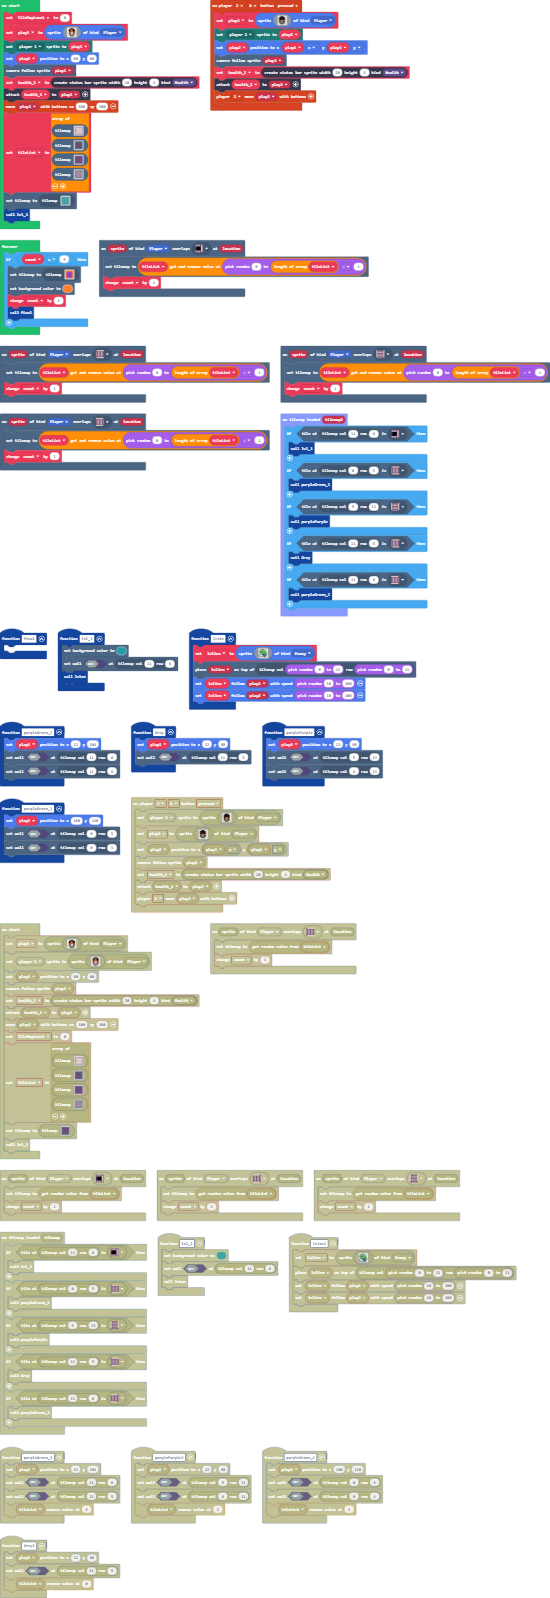
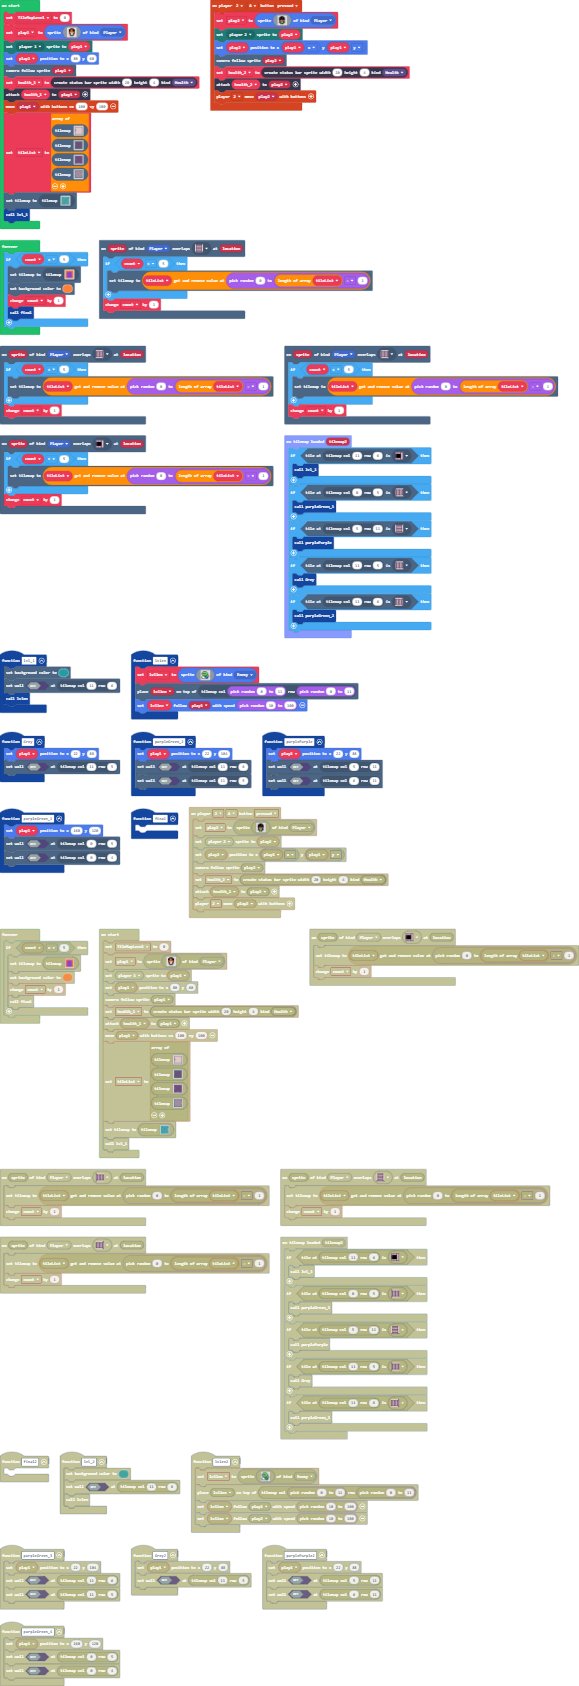
worked on some glitches and errors

diff --git a/tilemap.g.ts b/tilemap.g.ts
@@ -202,21 +202,6 @@ namespace myTiles {
 2 . . . . . . . . . . 2 
 2 2 2 2 2 2 2 2 2 2 2 2 
 `, [myTiles.transparency16,sprites.dungeon.greenOuterNorthWest,sprites.dungeon.greenOuterSouthEast,sprites.dungeon.greenOuterSouthWest,sprites.dungeon.greenOuterNorthEast,sprites.dungeon.greenOuterSouth0,sprites.dungeon.greenOuterEast1,sprites.dungeon.greenOuterWest1,sprites.dungeon.greenOuterNorth0,sprites.dungeon.greenOuterNorth1,sprites.dungeon.greenOuterEast0,sprites.dungeon.greenOuterSouth1,sprites.dungeon.greenOuterWest0,sprites.dungeon.stairLarge,sprites.dungeon.darkGroundNorthWest1,sprites.dungeon.darkGroundCenter,sprites.dungeon.stairEast], TileScale.Sixteen);
-            case "level7":
[1 lines of base64/hex data omitted]
-2 2 2 2 2 2 2 2 2 2 2 2 
-2 . . . . . . . . . . 2 
-2 . . . . . . . . . . 2 
-2 . . . . . . . . . . 2 
-2 2 . . . . . . . . . 2 
-2 2 . . . . . . . . . . 
-2 2 . . . . . . . . . 2 
-2 . . . . . . . . . . 2 
-2 . . . . . . . . . . 2 
-2 . . . . . . . . . . 2 
-2 . . . . . . . . . . 2 
-2 2 2 2 2 2 2 2 2 2 2 2 
-`, [myTiles.transparency16,sprites.dungeon.floorDark0,sprites.dungeon.floorMixed,sprites.dungeon.floorDarkDiamond,sprites.dungeon.floorDark1,sprites.dungeon.floorDark4,sprites.dungeon.floorLight2,sprites.dungeon.floorLight5,sprites.dungeon.purpleInnerNorthEast,sprites.dungeon.purpleInnerSouthEast,sprites.dungeon.stairWest,sprites.dungeon.stairEast], TileScale.Sixteen);
             case "level17":
             case "level17":return tiles.createTilemap(hex`1000100000000000000000000000000000000000000000000000000000000000000000000000000000000000000000000000000000000000000000000000000000000000000000000000000000000000000000000000000000000000000000000000000000000000000000000000000000000000000000000000000000000000000000000000000000000000000000000000000000000000000000000000000000000000000000000000000000000000000000000000000000000000000000000000000000000000000000000000000000000000000000000000000000000000000000000000000000000000000000000000000000000000000000000000000000000000`, img`
 . . . . . . . . . . . . . . . . 
@@ -285,6 +270,116 @@ namespace myTiles {
 . . . . . . . . . . . . . . . . 
 . . . . . . . . . . . . . . . . 
 `, [myTiles.transparency16], TileScale.Sixteen);
+            case "level19":
+            case "level19":return tiles.createTilemap(hex`1000100000000000000000000000000000000000000000000000000000000000000000000000000000000000000000000000000000000000000000000000000000000000000000000000000000000000000000000000000000000000000000000000000000000000000000000000000000000000000000000000000000000000000000000000000000000000000000000000000000000000000000000000000000000000000000000000000000000000000000000000000000000000000000000000000000000000000000000000000000000000000000000000000000000000000000000000000000000000000000000000000000000000000000000000000000000000`, img`
+. . . . . . . . . . . . . . . . 
+. . . . . . . . . . . . . . . . 
+. . . . . . . . . . . . . . . . 
+. . . . . . . . . . . . . . . . 
+. . . . . . . . . . . . . . . . 
+. . . . . . . . . . . . . . . . 
+. . . . . . . . . . . . . . . . 
+. . . . . . . . . . . . . . . . 
+. . . . . . . . . . . . . . . . 
+. . . . . . . . . . . . . . . . 
+. . . . . . . . . . . . . . . . 
+. . . . . . . . . . . . . . . . 
+. . . . . . . . . . . . . . . . 
+. . . . . . . . . . . . . . . . 
+. . . . . . . . . . . . . . . . 
+. . . . . . . . . . . . . . . . 
+`, [myTiles.transparency16], TileScale.Sixteen);
+            case "level20":
+            case "level20":return tiles.createTilemap(hex`1000100000000000000000000000000000000000000000000000000000000000000000000000000000000000000000000000000000000000000000000000000000000000000000000000000000000000000000000000000000000000000000000000000000000000000000000000000000000000000000000000000000000000000000000000000000000000000000000000000000000000000000000000000000000000000000000000000000000000000000000000000000000000000000000000000000000000000000000000000000000000000000000000000000000000000000000000000000000000000000000000000000000000000000000000000000000000`, img`
+. . . . . . . . . . . . . . . . 
+. . . . . . . . . . . . . . . . 
+. . . . . . . . . . . . . . . . 
+. . . . . . . . . . . . . . . . 
+. . . . . . . . . . . . . . . . 
+. . . . . . . . . . . . . . . . 
+. . . . . . . . . . . . . . . . 
+. . . . . . . . . . . . . . . . 
+. . . . . . . . . . . . . . . . 
+. . . . . . . . . . . . . . . . 
+. . . . . . . . . . . . . . . . 
+. . . . . . . . . . . . . . . . 
+. . . . . . . . . . . . . . . . 
+. . . . . . . . . . . . . . . . 
+. . . . . . . . . . . . . . . . 
+. . . . . . . . . . . . . . . . 
+`, [myTiles.transparency16], TileScale.Sixteen);
+            case "level21":
+            case "level21":return tiles.createTilemap(hex`1000100000000000000000000000000000000000000000000000000000000000000000000000000000000000000000000000000000000000000000000000000000000000000000000000000000000000000000000000000000000000000000000000000000000000000000000000000000000000000000000000000000000000000000000000000000000000000000000000000000000000000000000000000000000000000000000000000000000000000000000000000000000000000000000000000000000000000000000000000000000000000000000000000000000000000000000000000000000000000000000000000000000000000000000000000000000000`, img`
+. . . . . . . . . . . . . . . . 
+. . . . . . . . . . . . . . . . 
+. . . . . . . . . . . . . . . . 
+. . . . . . . . . . . . . . . . 
+. . . . . . . . . . . . . . . . 
+. . . . . . . . . . . . . . . . 
+. . . . . . . . . . . . . . . . 
+. . . . . . . . . . . . . . . . 
+. . . . . . . . . . . . . . . . 
+. . . . . . . . . . . . . . . . 
+. . . . . . . . . . . . . . . . 
+. . . . . . . . . . . . . . . . 
+. . . . . . . . . . . . . . . . 
+. . . . . . . . . . . . . . . . 
+. . . . . . . . . . . . . . . . 
+. . . . . . . . . . . . . . . . 
+`, [myTiles.transparency16], TileScale.Sixteen);
+            case "level22":
+            case "level22":return tiles.createTilemap(hex`1000100000000000000000000000000000000000000000000000000000000000000000000000000000000000000000000000000000000000000000000000000000000000000000000000000000000000000000000000000000000000000000000000000000000000000000000000000000000000000000000000000000000000000000000000000000000000000000000000000000000000000000000000000000000000000000000000000000000000000000000000000000000000000000000000000000000000000000000000000000000000000000000000000000000000000000000000000000000000000000000000000000000000000000000000000000000000`, img`
+. . . . . . . . . . . . . . . . 
+. . . . . . . . . . . . . . . . 
+. . . . . . . . . . . . . . . . 
+. . . . . . . . . . . . . . . . 
+. . . . . . . . . . . . . . . . 
+. . . . . . . . . . . . . . . . 
+. . . . . . . . . . . . . . . . 
+. . . . . . . . . . . . . . . . 
+. . . . . . . . . . . . . . . . 
+. . . . . . . . . . . . . . . . 
+. . . . . . . . . . . . . . . . 
+. . . . . . . . . . . . . . . . 
+. . . . . . . . . . . . . . . . 
+. . . . . . . . . . . . . . . . 
+. . . . . . . . . . . . . . . . 
+. . . . . . . . . . . . . . . . 
+`, [myTiles.transparency16], TileScale.Sixteen);
+            case "level23":
+            case "level23":return tiles.createTilemap(hex`1000100000000000000000000000000000000000000000000000000000000000000000000000000000000000000000000000000000000000000000000000000000000000000000000000000000000000000000000000000000000000000000000000000000000000000000000000000000000000000000000000000000000000000000000000000000000000000000000000000000000000000000000000000000000000000000000000000000000000000000000000000000000000000000000000000000000000000000000000000000000000000000000000000000000000000000000000000000000000000000000000000000000000000000000000000000000000`, img`
+. . . . . . . . . . . . . . . . 
+. . . . . . . . . . . . . . . . 
+. . . . . . . . . . . . . . . . 
+. . . . . . . . . . . . . . . . 
+. . . . . . . . . . . . . . . . 
+. . . . . . . . . . . . . . . . 
+. . . . . . . . . . . . . . . . 
+. . . . . . . . . . . . . . . . 
+. . . . . . . . . . . . . . . . 
+. . . . . . . . . . . . . . . . 
+. . . . . . . . . . . . . . . . 
+. . . . . . . . . . . . . . . . 
+. . . . . . . . . . . . . . . . 
+. . . . . . . . . . . . . . . . 
+. . . . . . . . . . . . . . . . 
+. . . . . . . . . . . . . . . . 
+`, [myTiles.transparency16], TileScale.Sixteen);
+            case "level7":
[1 lines of base64/hex data omitted]
+2 2 2 2 2 2 2 2 2 2 2 2 
+2 . . . . . . . . . . 2 
+2 . . . . . . . . . . 2 
+2 . . . . . . . . . . 2 
+2 2 . . . . . . . . . 2 
+2 . . . . . . . . . . 2 
+2 2 . . . . . . . . . 2 
+2 . . . . . . . . . . 2 
+2 . . . . . . . . . . 2 
+2 . . . . . . . . . . 2 
+2 . . . . . . . . . . 2 
+2 2 2 2 2 2 2 2 2 2 2 2 
+`, [myTiles.transparency16,sprites.dungeon.floorDark0,sprites.dungeon.floorMixed,sprites.dungeon.floorDarkDiamond,sprites.dungeon.floorDark1,sprites.dungeon.floorDark4,sprites.dungeon.floorLight2,sprites.dungeon.floorLight5,sprites.dungeon.purpleInnerNorthEast,sprites.dungeon.purpleInnerSouthEast,sprites.dungeon.stairEast,sprites.dungeon.stairLarge], TileScale.Sixteen);
         }
         return null;
     })

diff --git a/main.ts b/main.ts
@@ -6,7 +6,9 @@ function Grey () {
     tiles.setWallAt(tiles.getTileLocation(11, 5), false)
 }
 scene.onOverlapTile(SpriteKind.Player, sprites.dungeon.stairNorth, function (sprite, location) {
-    tiles.setCurrentTilemap(tileList.removeAt(randint(0, tileList.length - 1)))
+    if (count < 5) {
+        tiles.setCurrentTilemap(tileList.removeAt(randint(0, tileList.length - 1)))
+    }
     count += 1
 })
 function purpleGreen_1 () {
@@ -15,40 +17,21 @@ function purpleGreen_1 () {
     tiles.setWallAt(tiles.getTileLocation(0, 4), false)
 }
 controller.player2.onButtonEvent(ControllerButton.A, ControllerButtonEvent.Pressed, function () {
-    play2 = sprites.create(img`
-        . . . . f f f f . . . . . 
-        . . f f f f f f f f . . . 
-        . f f f f f f c f f f . . 
-        f f f f f f c c f f f c . 
-        f f f c f f f f f f f c . 
-        c c c f f f e e f f c c . 
-        f f f f f e e f f c c f . 
-        f f f b f e e f b f f f . 
-        . f 4 1 f 4 4 f 1 4 f . . 
-        . f e 4 4 4 4 4 4 e f . . 
-        . f f f e e e e f f f . . 
-        f e f b 7 7 7 7 b f e f . 
-        e 4 f 7 7 7 7 7 7 f 4 e . 
-        e e f 6 6 6 6 6 6 f e e . 
-        . . . f f f f f f . . . . 
-        . . . f f . . f f . . . . 
-        `, SpriteKind.Player)
-    mp.setPlayerSprite(mp.playerSelector(mp.PlayerNumber.Two), play2)
-    play2.setPosition(play1.x, play1.y)
-    scene.cameraFollowSprite(play2)
-    health_2 = statusbars.create(20, 4, StatusBarKind.Health)
-    health_2.attachToSprite(play2)
-    controller.player2.moveSprite(play2)
+	
 })
 scene.onOverlapTile(SpriteKind.Player, sprites.dungeon.doorOpenEast, function (sprite, location) {
-    tiles.setCurrentTilemap(tileList.removeAt(randint(0, tileList.length - 1)))
+    if (count < 5) {
+        tiles.setCurrentTilemap(tileList.removeAt(randint(0, tileList.length - 1)))
+    }
     count += 1
 })
 function final () {
 	
 }
 scene.onOverlapTile(SpriteKind.Player, sprites.dungeon.stairWest, function (sprite, location) {
-    tiles.setCurrentTilemap(tileList.removeAt(randint(0, tileList.length - 1)))
+    if (count < 5) {
+        tiles.setCurrentTilemap(tileList.removeAt(randint(0, tileList.length - 1)))
+    }
     count += 1
 })
 function purpleGreen_2 () {
@@ -62,7 +45,9 @@ function lvl_1 () {
     lv1en()
 }
 scene.onOverlapTile(SpriteKind.Player, sprites.dungeon.stairEast, function (sprite, location) {
-    tiles.setCurrentTilemap(tileList.removeAt(randint(0, tileList.length - 1)))
+    if (count < 5) {
+        tiles.setCurrentTilemap(tileList.removeAt(randint(0, tileList.length - 1)))
+    }
     count += 1
 })
 function purplePurple () {
@@ -108,11 +93,8 @@ function lv1en () {
         `, SpriteKind.Enemy)
     tiles.placeOnTile(lvl1en, tiles.getTileLocation(randint(0, 11), randint(0, 11)))
     lvl1en.follow(play1, randint(10, 100))
-    lvl1en.follow(play2, randint(10, 100))
 }
 let lvl1en: Sprite = null
-let health_2: StatusBarSprite = null
-let play2: Sprite = null
 let count = 0
 let tileList: tiles.TileMapData[] = []
 let play1: Sprite = null
